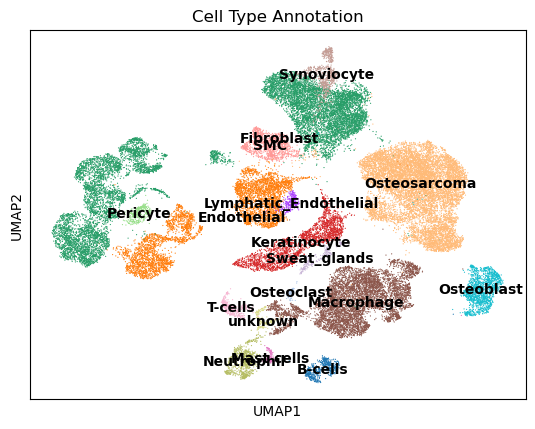
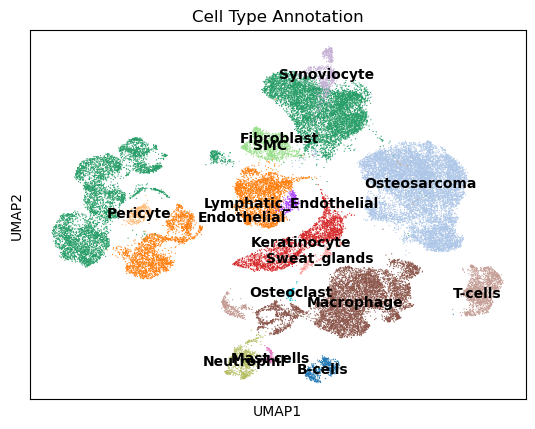
Update annotations and add umap doublets script and plot in README

diff --git a/src/doublets_umap.py b/src/doublets_umap.py
@@ -1,0 +1,45 @@
+import scanpy as sc
+import matplotlib.pyplot as plt
+import argparse
+
+# -----------------------
+# ARGPARSE INPUT
+# -----------------------
+parser = argparse.ArgumentParser()
+parser.add_argument("--input", required=True)
+args = parser.parse_args()
+
+# -----------------------
+# LOAD DATA
+# -----------------------
+adata = sc.read_h5ad(args.input)
+
+# -----------------------
+# UMAP PLOT (continuous doublet score)
+# -----------------------
+sc.pl.umap(
+    adata,
+    color="doublet_score",   # continuous variable
+    cmap="viridis",          # smooth gradient
+    vmin=0,
+    vmax=1,                  # Scrublet scores usually 0–1
+    size=20,
+    show=False
+)
+
+# -----------------------
+# SAVE FIGURE
+# -----------------------
+plt.savefig(
+   "figures/umap_doublet_score.png",
+    dpi=300,
+    bbox_inches="tight"
+)
+
+plt.close()
+
+print((adata.obs["doublet_score"] > 0.5).sum())
+
+print(adata.obs["doublet_score"].head())
+print(adata.obs["doublet_score"].describe())
+

diff --git a/README.md b/README.md
@@ -390,6 +390,26 @@ marker_genes = {
 
 <img src="figures/umap_combined_Bglap.png?v=4" width="33%" />
 
+### Double checking cluster 5 
+
+From the dotplot and feature plots,  cluster 5 does not show strong evidence of two distinct co-expressed gene programs.
+
+![](figures/umap_doublet_score.png?v=1) 
+
+From the dotplot, cluster 5 doesn't seem to be higlhy expressed in 2 distinct programs 
+## doublet_score Summary Statistics
+
+| Statistic | Value |
+|----------|-------|
+| Count    | 41304 |
+| Mean     | 0.041292 |
+| Std      | 0.045593 |
+| Min      | 0.000852 |
+| 25%      | 0.018277 |
+| 50%      | 0.030149 |
+| 75%      | 0.047481 |
+| Max      | 0.484083 |
+
 
 ### Preliminary Annotations 
 
